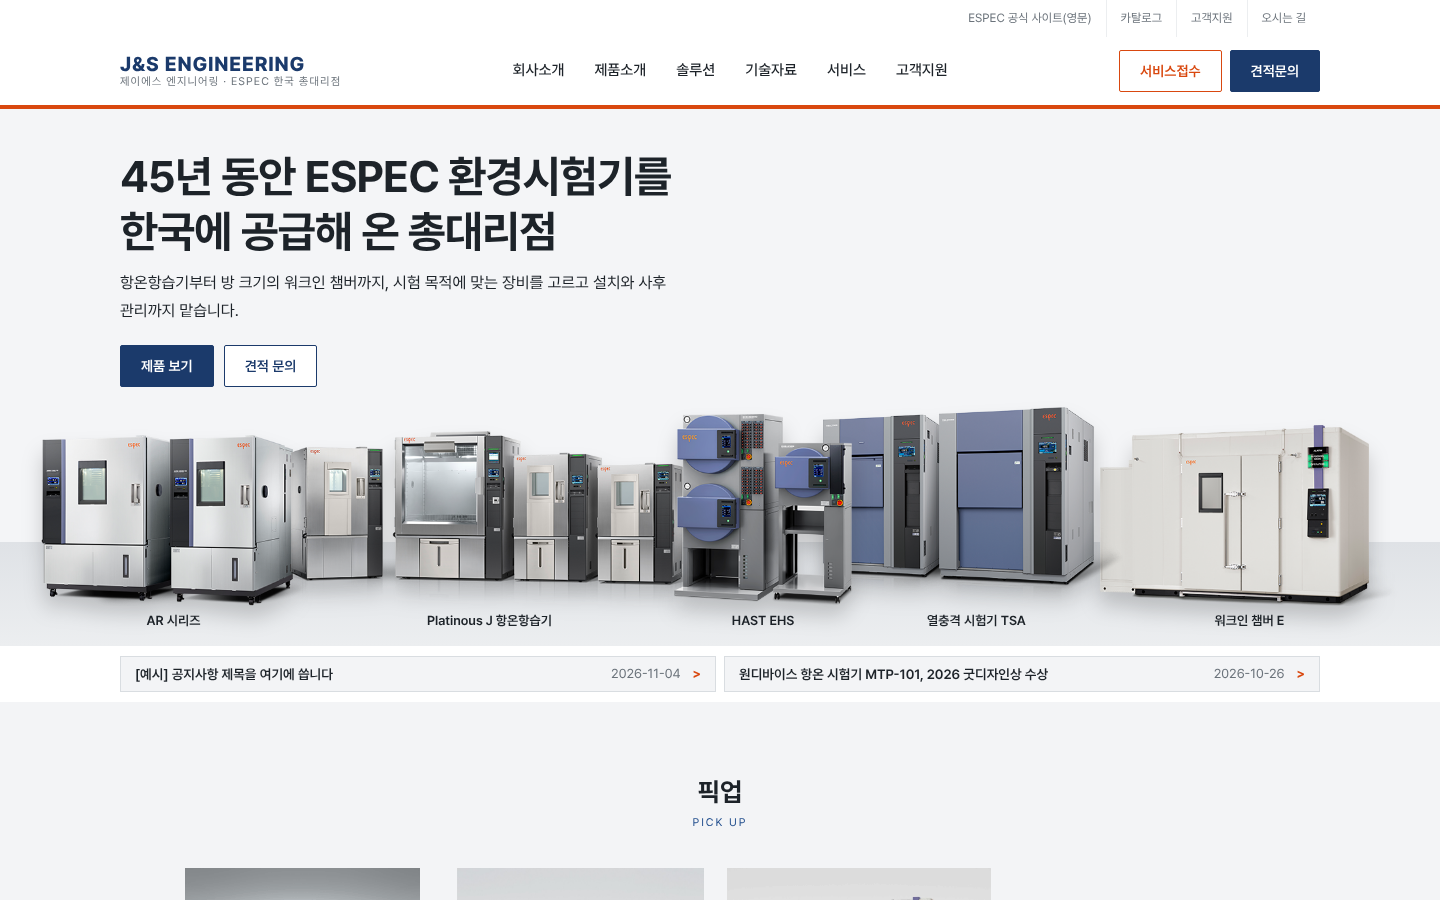
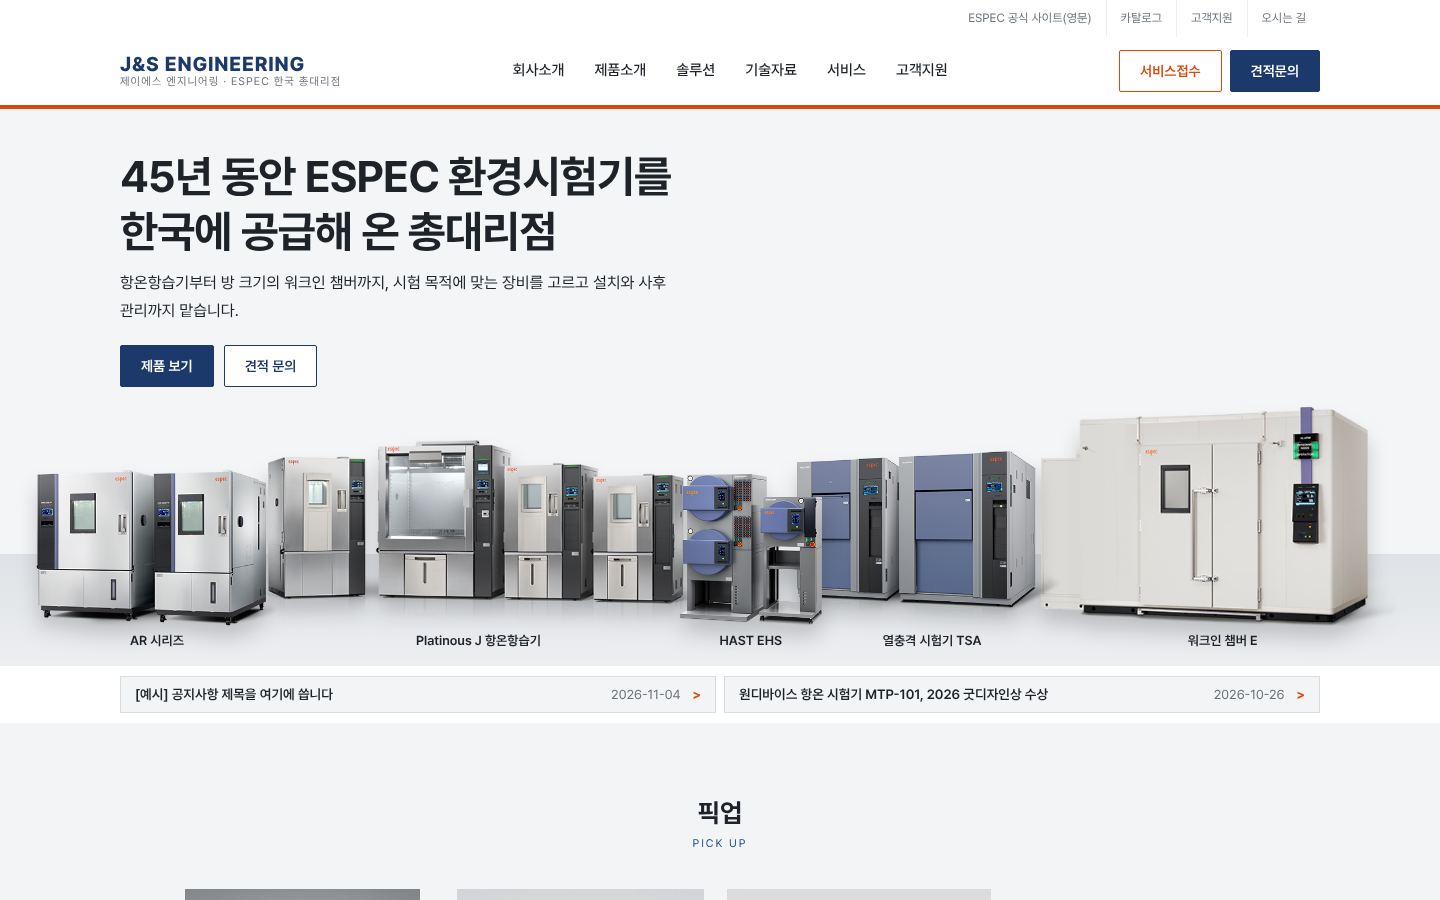
Main showroom: scale machines to approximate real heights (walk-in largest)
Claude-Session: https://claude.ai/code/session_01XB7A39iFN7xUh5xw32a7qZ

Changed region(s): [[0.0, 0.4356, 0.9688, 0.7778], [0.125, 0.9644, 0.6875, 1.0], [0.4688, 0.8711, 0.5312, 0.9333]]

diff --git a/design/concepts5/main-final.css b/design/concepts5/main-final.css
@@ -87,10 +87,12 @@
 .tier--one{background:linear-gradient(#f4f5f7 0%,#f4f5f7 58%,#dfe2e6 58%,#eceef0 100%);padding:8px 0 10px}
 .row5{max-width:1400px;margin:0 auto;padding:0 16px;display:flex;align-items:flex-end;justify-content:center}
 .row5 figure{margin:0;flex:none;position:relative}
-.row5 figure+figure{margin-left:-2.2%}
+.row5 figure+figure{margin-left:-1.9%}
 .row5 img{width:100%;height:auto;filter:drop-shadow(0 14px 10px rgba(0,0,0,.18))}
 .row5 figcaption{font-size:13px;font-weight:600;color:var(--ink);text-align:center;line-height:30px;white-space:nowrap}
-.o-ar{width:19.4%;z-index:1}.o-pj{width:31.2%;z-index:3}.o-hast{width:13.2%;z-index:4}.o-tsa{width:22.4%;z-index:3}.o-wk{width:21.9%;z-index:2}
+/* 실제 크기 비율: 장비 높이(대략) AR 1.85m, Platinous J(800L) 1.95m, HAST EHS 2단 1.8m, TSA 1.9m, 워크인 2.6m를
+   같은 축척(1m≈84px @1440)으로 맞춘 폭. 사진마다 원래 축척이 달라 폭 비율로 환산. 워크인이 가장 크게 보임 */
+.o-ar{width:17.7%;z-index:1}.o-pj{width:33.1%;z-index:3}.o-hast{width:10.5%;z-index:4}.o-tsa{width:19.8%;z-index:3}.o-wk{width:26.5%;z-index:2}
 @media (max-width:760px){
   .row5{flex-wrap:wrap;justify-content:center;gap:4px 10px}
   .row5 figure+figure{margin-left:0}
